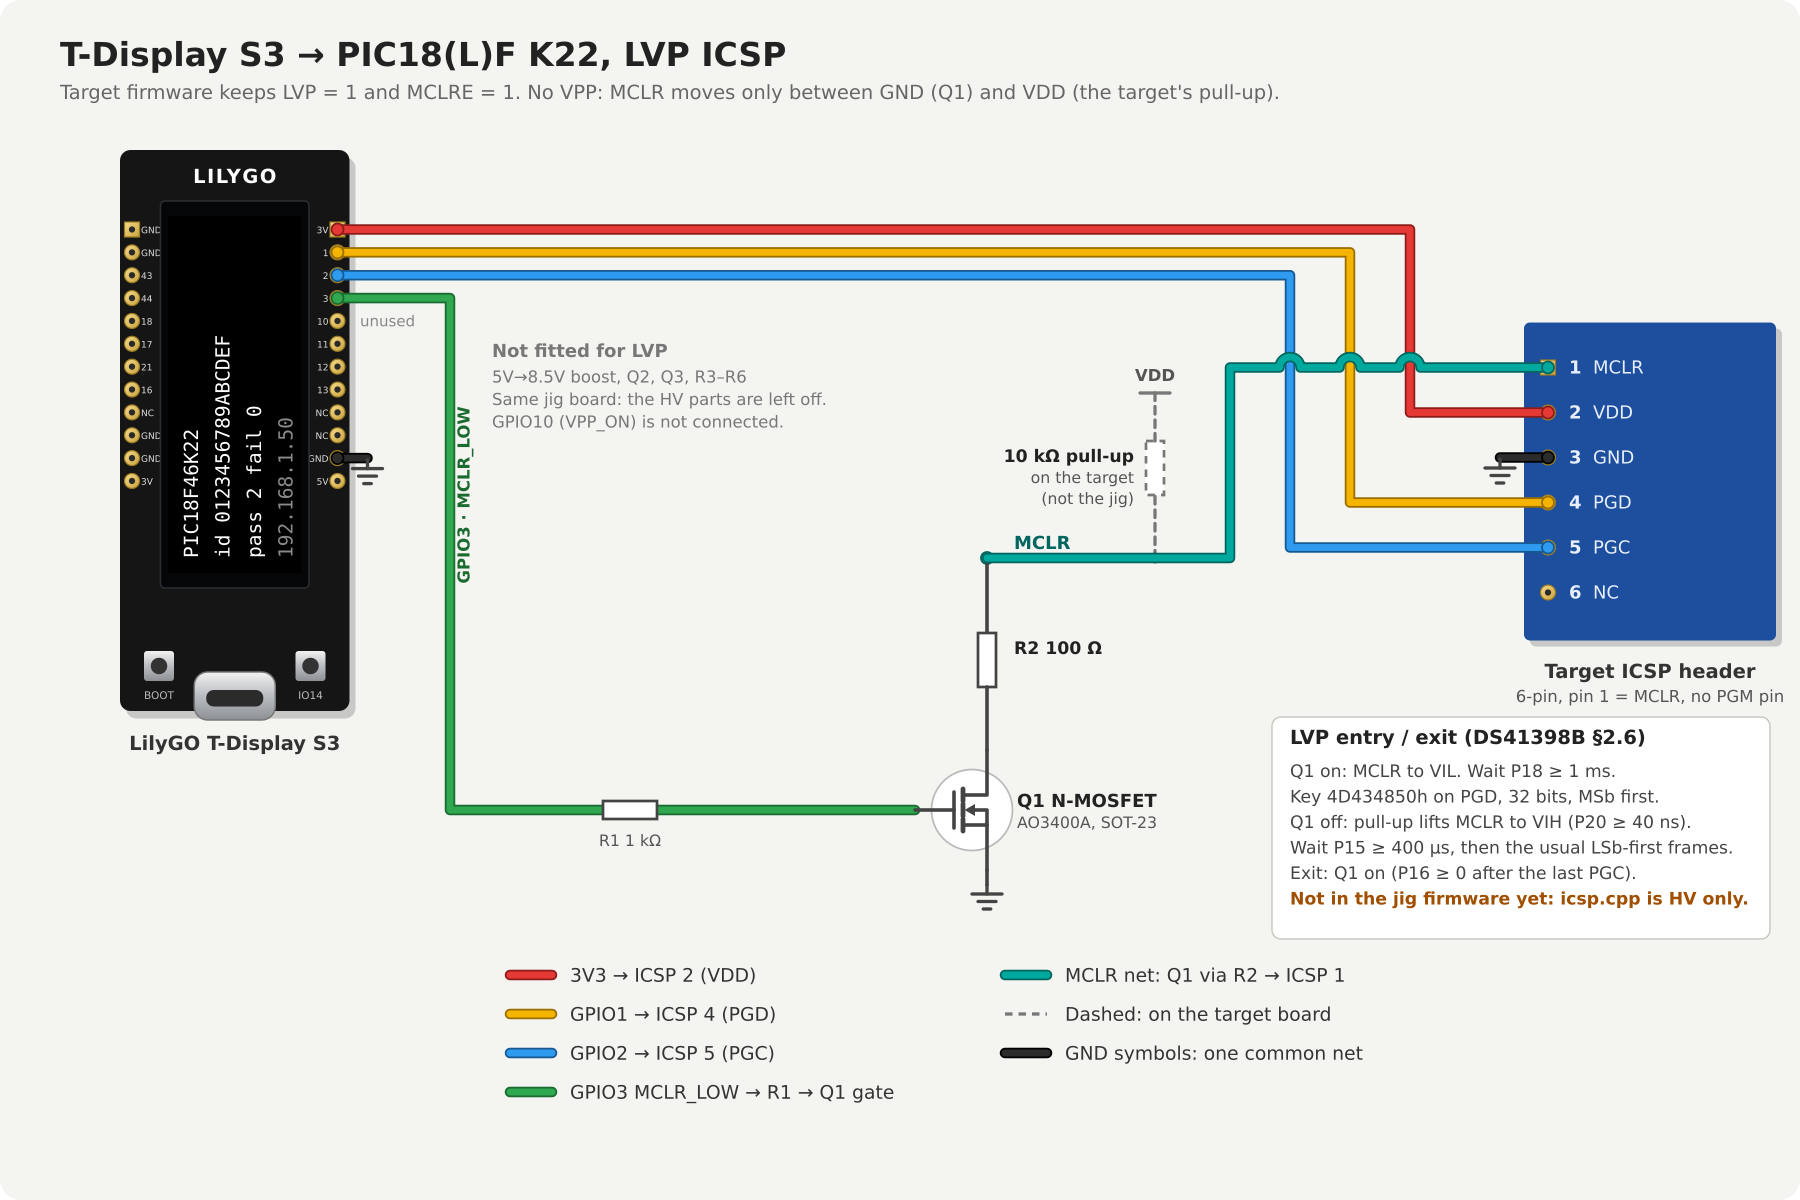
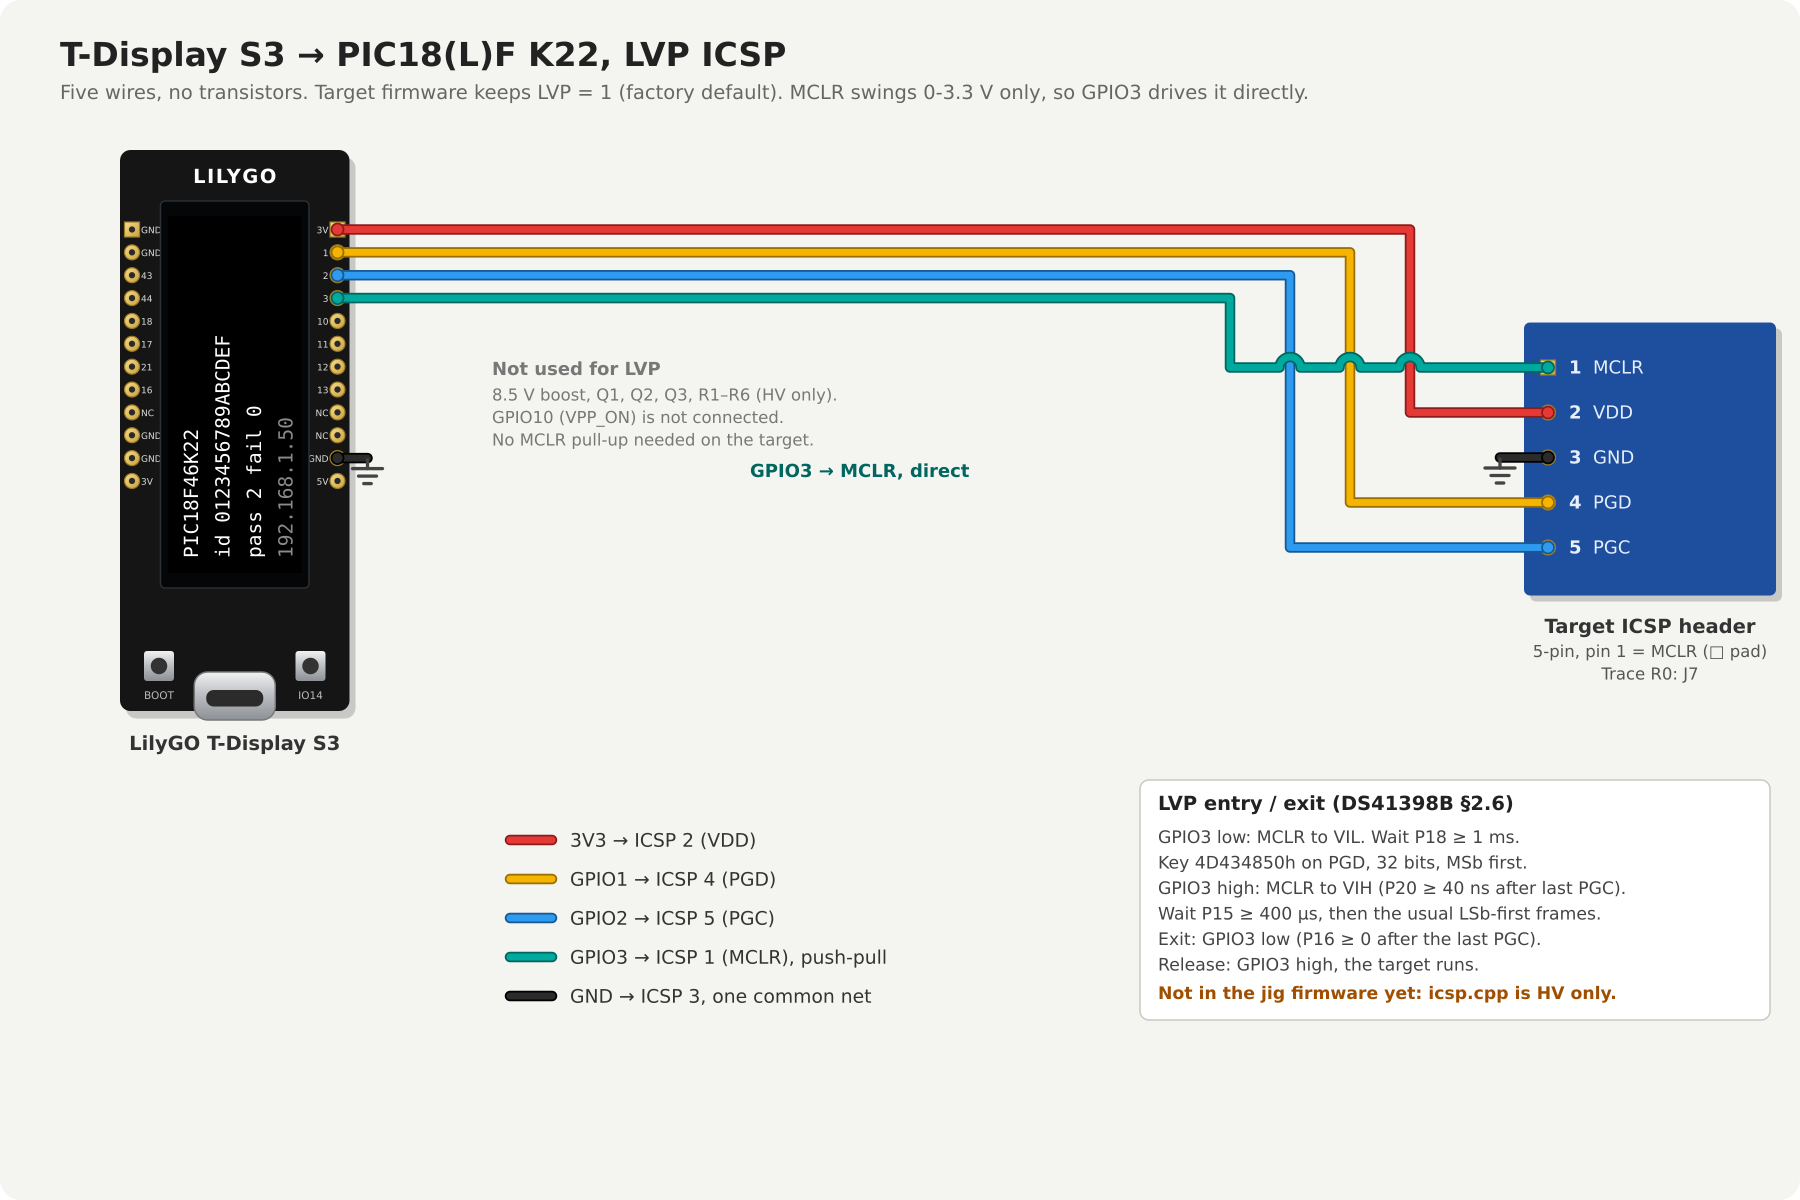
Make LVP the documented mode for Trace boards; 5-pin ICSP header
LVP wiring is five wires with GPIO3 driving MCLR directly (no Q1, no
target MCLR pull-up). Both drawings show the 5-pin header (Trace R0: J7).
Records the R0 config read (LVP = 1, MCLRE = 0) and the R0 pin-2
back-feed into the U6 LDO. LVP entry is still not in icsp.cpp.

Claude-Session: https://claude.ai/code/session_01P4kXRFnuu2fvJDaHSmDL4L

diff --git a/README.md b/README.md
@@ -99,7 +99,7 @@ Q3 is the high-side switch: source to +9 V, drain to MCLR, gate pulled up to
 9 V by R6 1 kΩ and pulled down through R5 and Q2 when GPIO10 is high. R5/R6
 halve the swing, so Q3 sees VGS = -4.5 V when on, inside the AO3401A's ±12 V
 limit (a gate pulled straight to GND would see -9 V). MCLR (Q3's drain, R2,
-and ICSP pin 1) is one net. ICSP pin 6 isn't used.
+and ICSP pin 1) is one net. The target header is 5-pin.
 The pins are set in `config.h`.
 
 - **The boost output must be 8.5 V.** VPP on MCLR: 7.8-9.0 V at VDD 3.3 V
@@ -136,7 +136,8 @@ The pins are set in `config.h`.
   voltage supervisor or a reset-IC output directly on MCLR on the target board:
   it would see 9 V. Isolate it with a Schottky diode, as the PICkit 2 guide
   advises. The ICSP header pinout is the standard one: 1 MCLR/VPP, 2 VDD, 3 GND,
-  4 PGD, 5 PGC, 6 NC (the K22 has no PGM pin).
+  4 PGD, 5 PGC. The K22 has no PGM pin, so boards fit 5 pins (Trace R0: J7);
+  a PICkit's pin 6 hangs off the end.
 - Leave the target board's own power unplugged while it's on the jig: the jig
   powers VDD from its 3V3 pin.
 - Keep wires short. If connections are flaky, raise `ICSP_HALF_PERIOD` in
@@ -153,51 +154,61 @@ The pins are set in `config.h`.
 
 ## Low-voltage programming (LVP)
 
-**The jig firmware doesn't do LVP yet.** `icsp.cpp` only has the HV entry
-(`icsp_enter()`, MCLR to 9 V). This section is the wiring and the protocol
-for when it does; none of it has been run on hardware.
+**LVP is the programming mode for the Trace / Module Monitor boards
+(PIC18F46K22).** No 8.5 V boost is built for them, and every `firmware.hex`
+for them must keep `LVP` = 1. **The jig firmware doesn't do LVP yet:**
+`icsp.cpp` only has the HV entry (`icsp_enter()`, MCLR to 9 V). This section
+is the wiring and the protocol it will use.
 
-LVP applies when the target's firmware keeps `LVP` = 1 (CONFIG4L 0x300006
-bit 2) and `MCLRE` = 1 (CONFIG3H bit 7). The Module Monitor R4 boards
-(PIC18F46K22) are built that way, fresh and in the field. LVP is on from the
-factory (DS41398B §5.3: "The LVP bit defaults to a '1' (enabled) from the
-factory"; datasheet DS40001412G §24.9 note 2: enabled in unprogrammed and
-erased devices; Table 24-1 CONFIG4L default `1000 0101`, 0x85), so a new
-board takes LVP with no HV step. The K22 has no PGM pin: entry is a key
-sequence on PGD while MCLR is low. Once in LVP mode MCLR is always enabled,
-whatever `MCLRE` says (DS41398B §2.1.1 note 2).
+LVP applies when the target keeps `LVP` = 1 (CONFIG4L 0x300006 bit 2). LVP is
+on from the factory (DS41398B §5.3: "The LVP bit defaults to a '1' (enabled)
+from the factory"; datasheet DS40001412G §24.9 note 2: enabled in
+unprogrammed and erased devices; Table 24-1 CONFIG4L default `1000 0101`,
+0x85), so a new board takes LVP with no HV step. The K22 has no PGM pin:
+entry is a key sequence on PGD while MCLR is low. Once in LVP mode MCLR is
+always enabled, whatever `MCLRE` says (DS41398B §2.1.1 note 2), so
+`MCLRE` = 0 targets work too. A Trace R0 board read with a PICkit 5
+(2026-10-13) had CONFIG4L 0x85 (`LVP` = 1) and CONFIG3H 0x3D (`MCLRE` = 0).
 
 ![T-Display S3 to PIC18(L)F K22 LVP wiring](docs/wiring-lvp.png)
 
-What LVP removes from the [Wiring](#wiring) above: the 5 V to 8.5 V boost,
-Q2, Q3 and R3-R6. GPIO10 (`VPP_ON`) is unused and R4 isn't needed. What
-stays: PGD on GPIO1, PGC on GPIO2, VDD from 3V3, GND, and the MCLR pull-down,
-Q1 on GPIO3 through R1, with R2 100 Ω to MCLR. It is the same jig board with
-the HV parts left unpopulated, so fitting them later brings HV back. With Q1
-off, the target's own 10 kΩ MCLR pull-up to VDD is what raises MCLR to VIH:
-the jig never drives MCLR high. That pull-up is required here too.
+Five wires, no other parts:
 
-- No 9 V ever reaches MCLR, so the [9 V tolerance](#wiring) rule doesn't
-  apply. A reset supervisor on MCLR must still let Q1 pull it low and the
-  pull-up lift it (open-drain, or isolated with a diode).
-- The GPIO3 strapping note above still applies: MCLR is undefined for about
-  300 ms at jig boot.
-- ICSP pin 6 stays NC.
+| T-Display S3 | Target ICSP header (5-pin; Trace R0: J7) |
+|---|---|
+| GPIO 3 | pin 1, MCLR (driven high and low, push-pull) |
+| 3V3 | pin 2, VDD |
+| GND | pin 3, GND |
+| GPIO 1 | pin 4, PGD |
+| GPIO 2 | pin 5, PGC |
+
+The HV parts in [Wiring](#wiring) (the boost, Q1-Q3, R1-R6) exist only
+because HV puts 9 V on MCLR, which would destroy a GPIO. In LVP, MCLR only
+swings between GND and VDD, so GPIO3 drives it directly, and the target
+needs no MCLR pull-up (Trace R0 has none). GPIO10 (`VPP_ON`) is unused.
+
+- A reset supervisor or button on the target's MCLR must not fight GPIO3:
+  open-drain only, or isolated with a diode.
+- GPIO3 is an ESP32-S3 strapping pin and floats until `setup()` runs: MCLR is
+  undefined for about 300 ms at jig boot.
+- The jig powers the target from its 3V3 pin. If the target is powered from
+  its own supply instead, leave pin 2 unconnected, so the two never fight.
+  On Trace R0, pin 2 is the 3V3D rail, the output of LDO U6 (MCP1703A):
+  powering the board through pin 2 back-feeds U6 and its 12 V input rail.
 
 ### Entry and exit (DS41398B §2.6, Figures 2-14 and 2-15, §6.0 timing)
 
-Entry, VDD already up from the jig (P13: VDD up at least 100 ns before MCLR
-rises):
+Entry, VDD already up (P13: VDD up at least 100 ns before MCLR rises):
 
-1. MCLR at VIH, then to VIL: Q1 off (the pull-up lifts MCLR; no minimum hold
-   time at VIH), then Q1 on. PGC and PGD low and driven.
+1. MCLR at VIH, then to VIL: GPIO3 high (no minimum hold time at VIH), then
+   low. PGC and PGD low and driven.
 2. Wait **P18 ≥ 1 ms** from that MCLR fall to the first PGC rise.
 3. Clock the 32-bit key **4D434850h** (`0100 1101 0100 0011 0100 1000 0101
    0000`) onto PGD, **MSb first** ("The Most Significant bit of the most
    significant nibble must be shifted in first"). The command frames after
    entry stay LSb first, so `write_bits()` can't send the key as it is.
-4. Wait **P20 ≥ 40 ns** after the last key PGC falls, then Q1 off: MCLR back
-   to VIH, and held there for the whole session.
+4. Wait **P20 ≥ 40 ns** after the last key PGC falls, then GPIO3 high: MCLR
+   back to VIH, and held there for the whole session.
 5. Wait **P15 ≥ 400 µs** after MCLR rises before the first data on PGD.
    "Signals appearing on PGD before P15 has elapsed may not be interpreted as
    valid."
@@ -205,9 +216,8 @@ rises):
 Everything after entry (commands, table reads and writes, the P9/P10/P11
 holds) is the same as HV.
 
-Exit: **P16 ≥ 0** after the last PGC falls, then remove VIH from MCLR (Q1 on).
-When MCLR goes back to VIH (Q1 off, what `icsp_release()` does) the target
-runs its application.
+Exit: **P16 ≥ 0** after the last PGC falls, then GPIO3 low (MCLR to VIL).
+Release: GPIO3 high, and the target runs its application.
 
 - **A part with `LVP` = 0 needs one HV pass first.** `LVP` can be set or
   cleared only in HV mode (DS41398B §5.3; datasheet §24.9). A board whose
@@ -525,9 +535,9 @@ The 16 parts the jig knows, by device ID (the ID register with its 5 revision bi
 
 - The table is in `pic18k22.cpp`. Device IDs are from DS41398 Table 5-2 and sizes
   from the MPLAB X PIC18F-K_DFP 1.14.301 device files.
-- **HV ICSP only, for now.** Low-voltage programming only works on parts
-  whose firmware keeps `LVP` = 1, and the jig firmware doesn't implement its
-  entry yet. The wiring and protocol are documented in
+- **HV ICSP only, for now.** LVP is the mode for the Trace boards (parts
+  that keep `LVP` = 1), but the jig firmware doesn't implement its entry
+  yet. The wiring and protocol are documented in
   [Low-voltage programming (LVP)](#low-voltage-programming-lvp).
 - **3.3 V targets only.** 5 V targets are out of scope.
 - Other PIC families, a jig-assigned serial number, authentication and

diff --git a/CLAUDE.md b/CLAUDE.md
@@ -65,7 +65,7 @@ floats, so MCLR is undefined for ~300 ms at jig boot.
 - Auto mode runs `flash.txt` once per insertion (`flashed`, set after ANY outcome including comm error, cleared together with `lastResult` after `MISSES_GONE` = 3 "no target" probes in a row, ~3 s, OR when a user ID different from `flashedId` shows on two consecutive probes: a quick swap to a different board is run). `runTests` sets `flashedId` to the ID the run started on (no post-run probe, so one bad read can't reflash a seated board, and a swap during the result hold is still caught); a run that changes the ID (blank after an interruption) gets one more run, which stops at `blank userid` without touching the chip. A board left on the jig is never reflashed, even across one bad probe or one misread ID.
 - Uploading a file never runs anything. `POST /run` (only `*.txt`, else 400) is the only HTTP way to start a script; the loop runs it (`wantRun`).
 - WiFi is secondary: flashing must never wait on it (WiFiManager non-blocking). Nothing is authenticated (same as the siblings).
-- Firmware is HV only. LVP (factory default on; only HV can change the bit; MCLR is always enabled in LVP mode regardless of MCLRE) is documented in README "Low-voltage programming (LVP)" with `docs/wiring-lvp.png`, but `icsp.cpp` has no LVP entry yet. Firmware that sets `LVP = OFF` needs HV.
+- **LVP is the programming mode for the Trace / Module Monitor boards** (user decision 2026-10-13): no 8.5 V boost will be built for them, and every `firmware.hex` for them must keep `LVP` = 1. LVP wiring is five wires, GPIO3 driving MCLR directly push-pull (no Q1, no target MCLR pull-up needed; Trace R0 has none): README "Low-voltage programming (LVP)", `docs/wiring-lvp.png`. The jig must support both HV and LVP, but `icsp.cpp` is still HV only: LVP entry is not implemented yet. LVP can be changed only in HV mode; MCLR is always enabled in LVP mode regardless of MCLRE.
 
 ## Current state / caveats
 

diff --git a/docs/architecture.md b/docs/architecture.md
@@ -87,8 +87,9 @@ PGC/PGD released to inputs (P16 = 0: no PGC edge between the last frame and MCLR
 
 LVP entry (key 4D434850h on PGD, MSb first, with MCLR at VIL; DS41398B §2.6) is
 not implemented. The README's [Low-voltage programming (LVP)](../README.md#low-voltage-programming-lvp)
-section has the wiring (Q1 only; no boost, Q2/Q3, R3-R6, GPIO10 unused) and the
-entry/exit sequence for targets whose firmware keeps `LVP` = 1 and `MCLRE` = 1.
+section has the wiring (five wires: GPIO3 drives MCLR directly, no boost, no
+transistors, GPIO10 unused) and the entry/exit sequence for targets that keep
+`LVP` = 1 (any `MCLRE`). LVP is the mode for the Trace boards.
 
 `icsp_release()` turns MCLR_LOW off so the target runs. It does nothing while
 VPP_ON is set, so it can't be used mid-session. After `icsp_exit()` the target is
